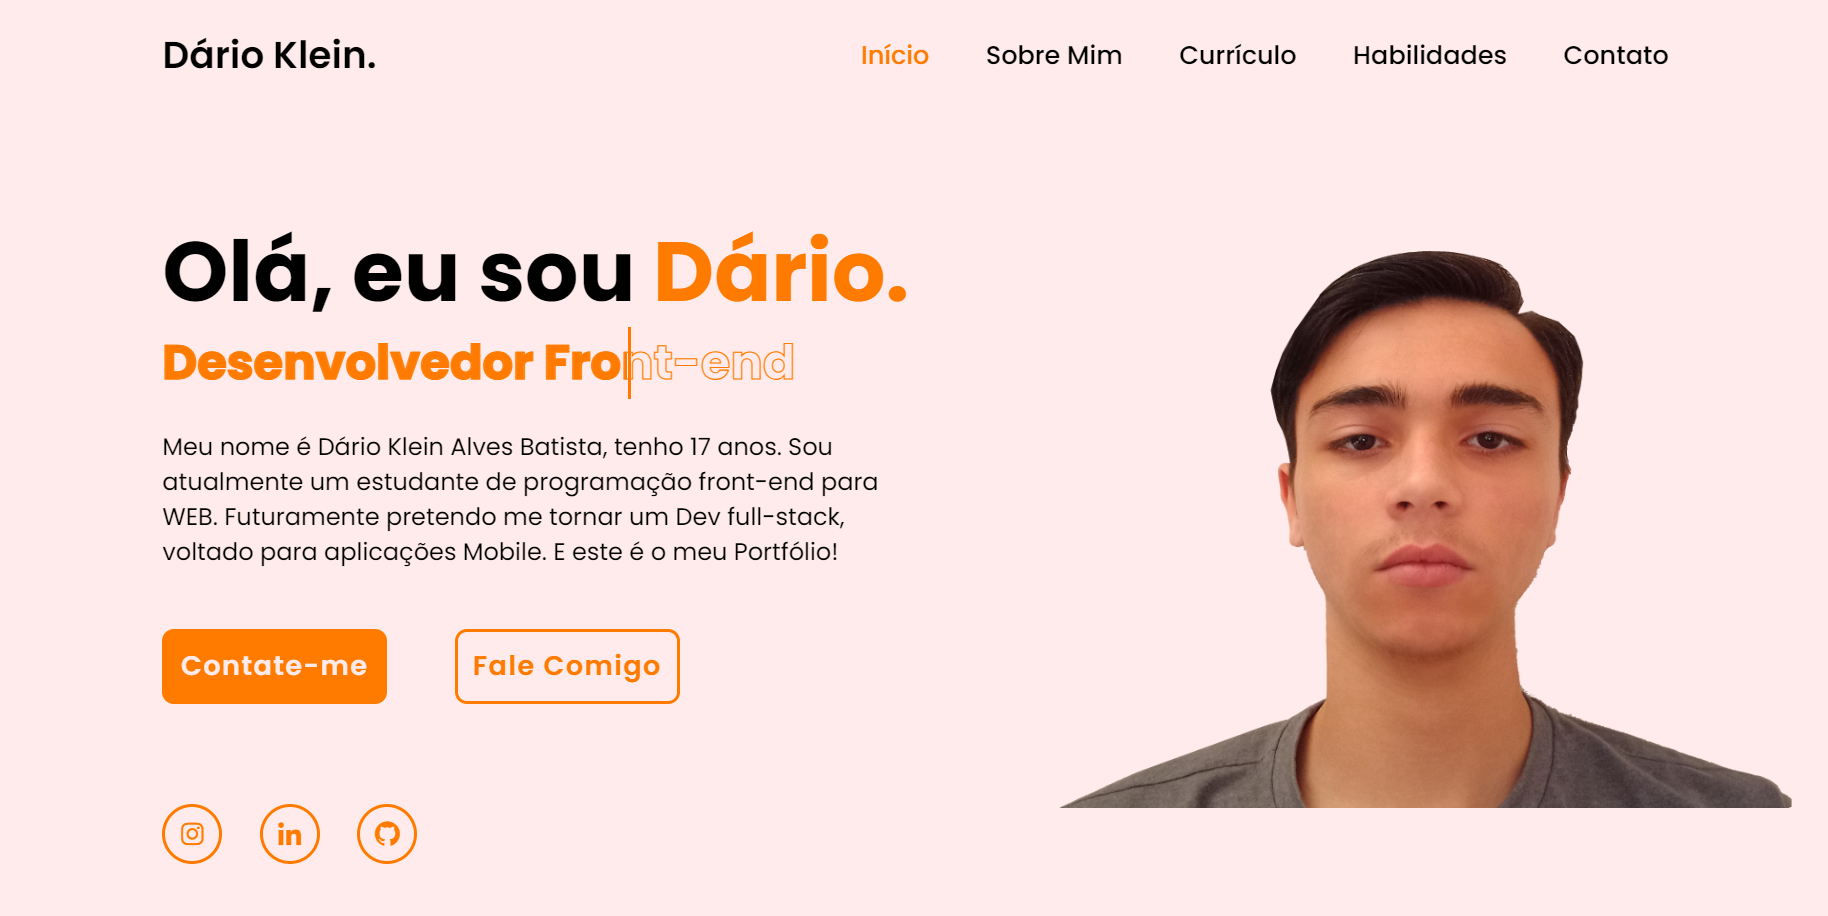
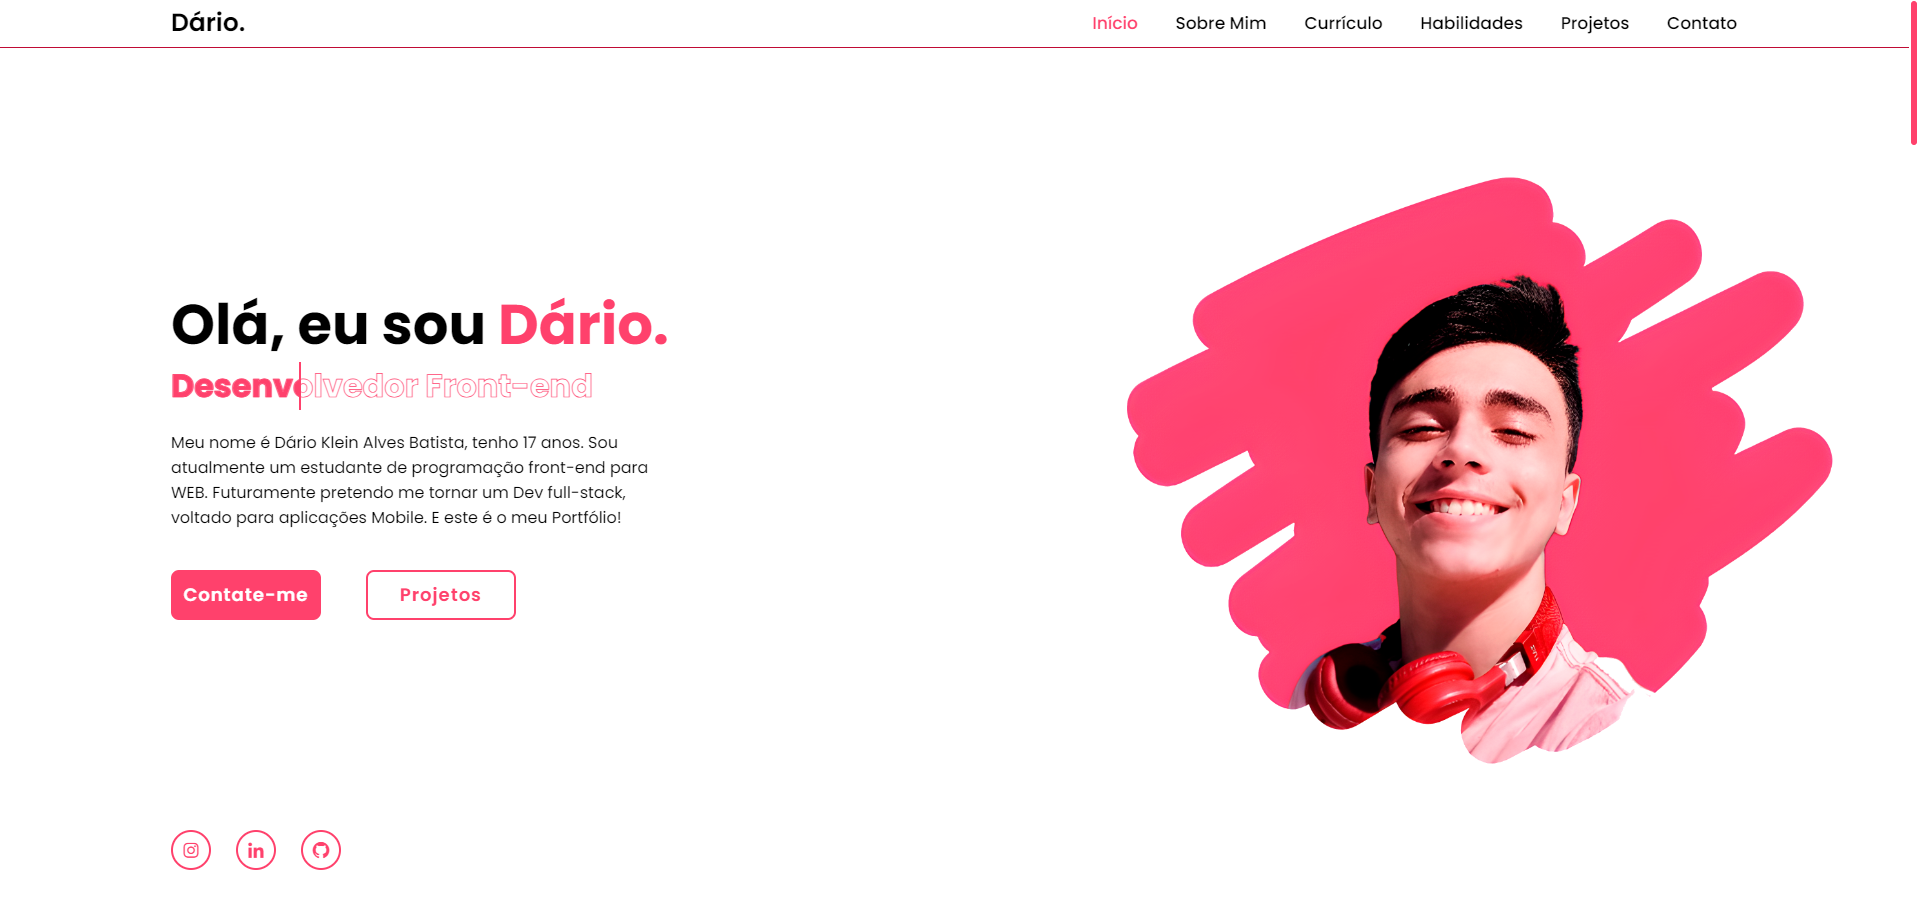
finished new version

diff --git a/script.js b/script.js
@@ -4,7 +4,7 @@ let menuIcon = document.querySelector("#menu-icon")
 let navbar = document.querySelector(".navbar")
 menuIcon.onclick = () => {
   menuIcon.classList.toggle("bx-x")
-  navbar.classList.toggle('active')
+  navbar.classList.toggle("active")
 }
 
 // scroll sections
@@ -27,7 +27,7 @@ window.onscroll = () => {
           .classList.add("active")
       })
       // Active sections for animation on scroll
-      sec.classList.add('show-animate')
+      sec.classList.add("show-animate")
     }
   })
 
@@ -36,13 +36,16 @@ window.onscroll = () => {
   header.classList.toggle("sticky", window.scrollY > 100)
 
   // Remove toggle icon and navbar when click navbar links (scroll)
-   menuIcon.classList.remove("bx-x")
-   navbar.classList.remove("active")
+  menuIcon.classList.remove("bx-x")
+  navbar.classList.remove("active")
 
   //  animation footer on scroll
-  let footer = document.querySelector('footer');
+  let footer = document.querySelector("footer")
 
-  footer.classList.add('show-animate', this.innerHeight + this.scrollY >= document.scrollingElement.scrollHeight)
+  footer.classList.add(
+    "show-animate",
+    this.innerHeight + this.scrollY >= document.scrollingElement.scrollHeight
+  )
 }
 
 //  Hrefs dos projetos
@@ -76,4 +79,22 @@ crud.addEventListener("click", () => {
 
 portfolio.addEventListener("click", () => {
   window.location.href = "https://github.com/DarioKlein/portfolio" // Substitua com o URL desejado
+})
+
+const img = document.querySelector("#img-hover")
+
+img.addEventListener("mouseover", () => {
+  img.style.opacity = "0.3"
+  setTimeout(() => {
+    img.src = "./assets/newDario2.png"
+    img.style.opacity = "1"
+   }, 400)
+})
+
+img.addEventListener("mouseout", () => {
+   img.style.opacity = "0.3"
+   setTimeout(() => {
+     img.src = "./assets/newDario.png"
+     img.style.opacity = "1"
+   }, 400)
 })

diff --git a/index.html b/index.html
@@ -14,7 +14,7 @@
     <link rel="stylesheet" href="style/skills.css" />
     <link rel="stylesheet" href="style/responsive.css" />
     <link rel="stylesheet" href="style/projects.css" />
-    <link rel="icon" type="image/x-icon" href="/assets/dario.png" />
+    <link rel="icon" type="image/x-icon" href="/assets/zyro-image (3).png" />
     <link
       href="https://unpkg.com/boxicons@2.1.4/css/boxicons.min.css"
       rel="stylesheet"
@@ -87,7 +87,7 @@
       </div>
 
       <div class="home-imgHover">
-        <img src="assets/dario.png" alt="" />
+        <img src="/assets/newDario.png" id="img-hover" alt="" />
         <span class="animate home-img" style="--i: 7"></span>
       </div>
     </section>
@@ -101,7 +101,7 @@
       </h2>
 
       <div class="about-img">
-        <img src="assets/about3.jpg" alt="" />
+        <img src="assets/zyro-image (1).png" alt="" />
         <span class="circle-spin"></span>
         <span class="animate scroll" style="--i: 2"></span>
       </div>

diff --git a/style/reset.css b/style/reset.css
@@ -16,11 +16,11 @@
 }
 
 :root {
-  --bg-color: #ffebeb;
-  --second-bg-color: #ffbc3f;
+  --bg-color: #fff;
+  --second-bg-color: rgb(192, 11, 53);
   --text-color: #000000;
-  --main-color: #ff7b00;
-  --second-txt-color: #ffffff;
+  --main-color: rgb(255, 65, 108);
+  --second-txt-color: #fff;
 }
 
 html {
@@ -30,4 +30,14 @@ html {
 body {
   background-color: var(--bg-color);
   color: var(--text-color);
+}
+
+::-webkit-scrollbar {
+  width: 1rem; /* Largura da barra de rolagem */
+}
+
+::-webkit-scrollbar-thumb {
+  background-color: var(--main-color);
+  border-radius: 6px;
+  border: 0.2rem solid #fff; 
 }

diff --git a/style/education.css b/style/education.css
@@ -86,10 +86,16 @@
 
 .education-content .content h3 {
   font-size: 1.4rem;
+  transition: .3s ease-in-out;
 }
 
 .education .content p {
   font-size: 1.1rem;
   padding-top: 0.5rem;
   text-align: justify;
+  transition: .3s ease-in-out;
+}
+
+.education .content:hover p, .education-content .content:hover h3 {
+  color: var(--second-txt-color)
 }

diff --git a/style/about.css b/style/about.css
@@ -59,11 +59,11 @@
 
 .home-imgHover img{
   width: 90%;
+  transition: all 0.5s ease-in-out;
 }
 
 .home-imgHover:hover {
   background: var(--bg-color);
-  opacity: 0.8;
 }
 
 .about {
@@ -148,7 +148,7 @@ span {
 
 .about-content {
   text-align: center;
-  color: var(--text-color);
+  color: var(--second-txt-color);
 }
 
 .about-content p {

diff --git a/style/responsive.css b/style/responsive.css
@@ -164,4 +164,3 @@
     transform: trans;
   }
 }
-
